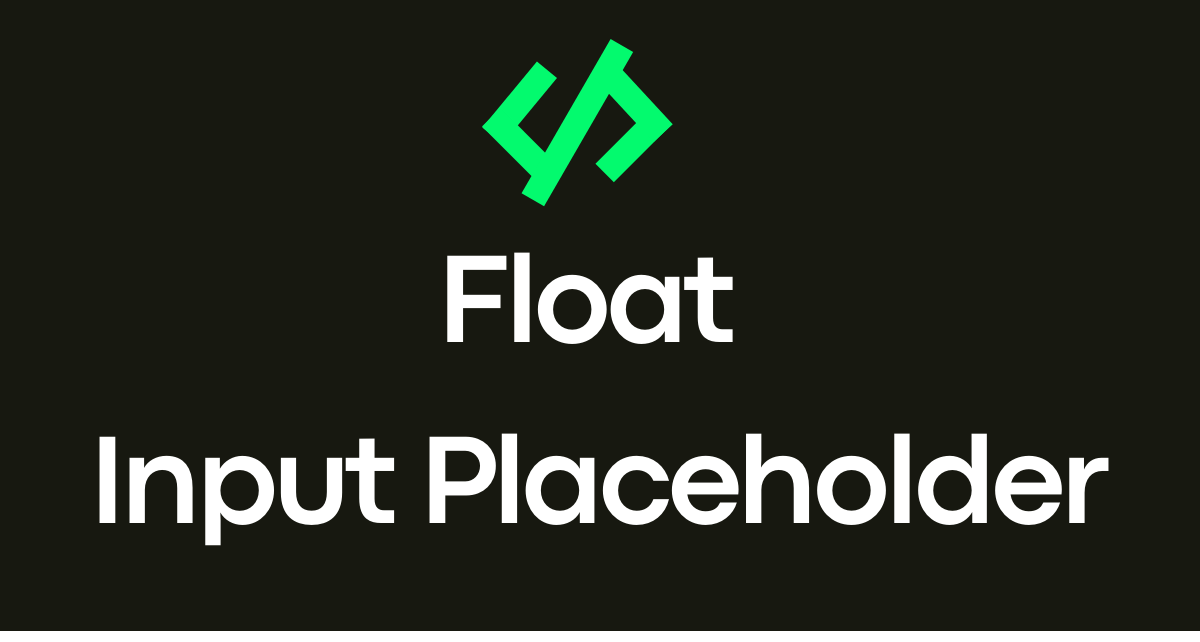
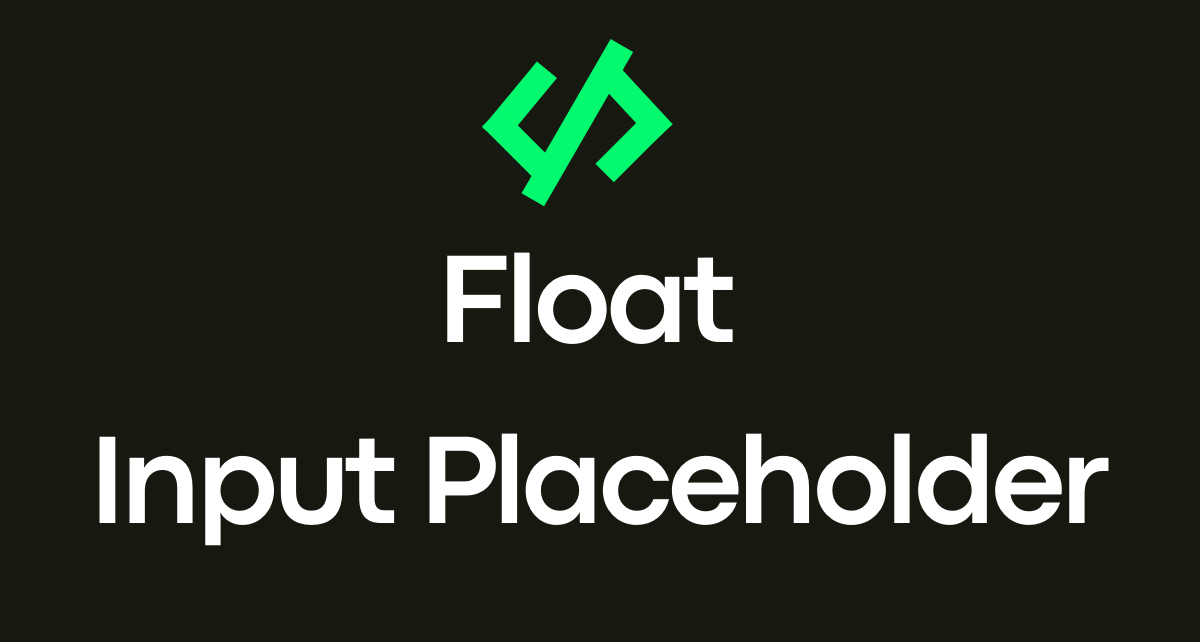
Updated image metadata and replaced LQIP with AVIF version

Changed region(s): [[0.0, 0.9657, 1.0, 1.0]]

diff --git a/_posts/2024-07-26-float-input-placeholder-example-with-tailwind-css.md b/_posts/2024-07-26-float-input-placeholder-example-with-tailwind-css.md
@@ -6,7 +6,7 @@ tags: [tailwind css, react, typescript, placeholder animation, float placeholder
 description: "Learn how to enhance your forms with float placeholders using Tailwind CSS. This guide provides a clear example of implementing float placeholders in both HTML and React, showcasing practical code snippets and styling techniques for a sleek, user-friendly interface."
 image:
   path: assets/img/post_images/2024-07-26-float-input-placeholder-example-with-tailwind-css-preview.png
-  lqip: assets/img/post_images/2024-07-26-float-input-placeholder-example-with-tailwind-css-preview.png
+  lqip: assets/img/post_images/2024-07-26-float-input-placeholder-example-with-tailwind-css-preview-low.avif
   alt: float input placeholder preview image
 lang: en
 ---
